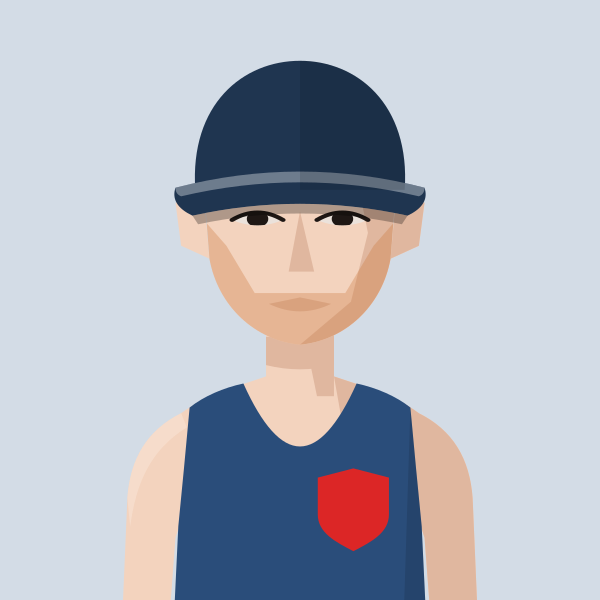
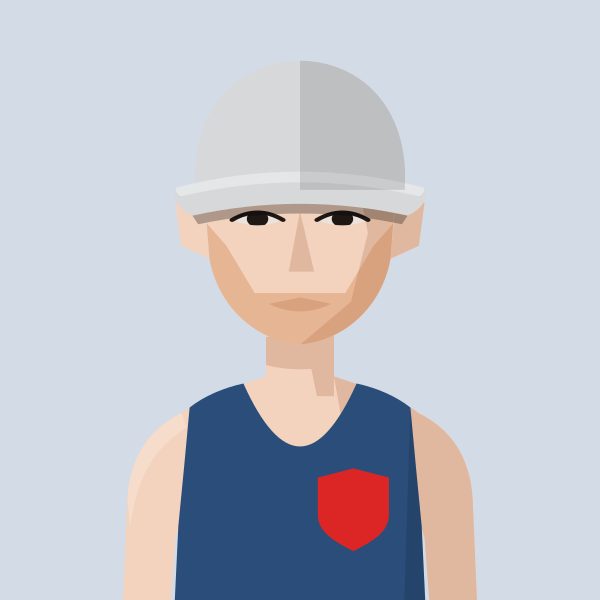
Barnaby Day: light grey cap
Claude-Session: https://claude.ai/code/session_01MgmDWhFqnSSnP4iBLKXUZC

Changed region(s): [[0.27, 0.09, 0.72, 0.36]]

diff --git a/files/index.html b/files/index.html
@@ -583,7 +583,7 @@ return m;})();
 const portraitFile=(name,club)=>{const k=normalizeNameForCompare(name||'').replace(/\s*\(([^)]*)\)$/,(m,c)=>CLUBS[c.toUpperCase()]?'':m);const a=PORTRAITS[k];if(a&&a.club===club)return a.file;const b=PORTRAITS[k+'@'+club];return b?b.file:null;};
 // Athlete header figure: superstar portrait if we have one, else a grey runner in the club vest, else the plain vest icon
 // Changes whenever any portrait changes (set by tools/build_og.py), so browsers fetch fresh images instead of old cached ones
-const PORTRAIT_V='1ee008d5';
+const PORTRAIT_V='3c5a3b78';
 const AthletePortrait=({name,club,w,fill,onClick})=>{const[failed,setFailed]=useState(false);const file=portraitFile(name,club);const src=file?`/portraits/athletes/${file}.svg?v=${PORTRAIT_V}`:PORTRAIT_CLUBS.has(club)?`/portraits/clubs/${club.replace(/\//g,'').replace(/&/g,'and')}.svg?v=${PORTRAIT_V}`:null;if(!src||failed)return<div onClick={onClick} className={onClick?'cursor-pointer':''}><ClubShield club={club} size={w}/></div>;const h=Math.round(w*148/126),ih=Math.round(w*1.4);if(fill)return<div onClick={onClick} className="cursor-pointer" style={{alignSelf:'stretch',minHeight:h,aspectRatio:'126 / 148',flexShrink:0,position:'relative',borderRadius:4,overflow:'hidden'}}><img src={src} alt={file?`Portrait of ${name.replace(/\s*\([^)]*\)$/,'')}`:`Runner in ${CLUBS[club]?.name||club} vest`} style={{position:'absolute',top:0,left:0,display:'block',width:'100%',height:'auto'}} onError={()=>setFailed(true)}/></div>;return<div style={{width:w,height:h,borderRadius:4,overflow:'hidden',flexShrink:0}}><img src={src} alt={file?`Portrait of ${name.replace(/\s*\([^)]*\)$/,'')}`:`Runner in ${CLUBS[club]?.name||club} vest`} width={w} height={ih} style={{display:'block',width:w,height:ih}} onError={()=>setFailed(true)}/></div>;};
 const getClubVestSvg=(club)=>{
   const p="M3 0 L6 0 Q7 4 10 5 Q13 4 14 0 L17 0 L17 20 L3 20 Z";

diff --git a/tools/gen_portraits.py b/tools/gen_portraits.py
@@ -475,7 +475,7 @@ save("blackwood", figure("DUL", skin=1, hair="quiff", hair_colour="light brown")
 save("nicoll", figure("H/W", skin=1, hair="bigcurls", hair_colour="ginger"))
 save("ismaili", figure("THH", skin=2, hair="horseshoe", hair_colour="black", facial="goatee"))
 save("hathaway", figure("HHH", skin=1, hair="crop", hair_colour="bleached", facial="moustache", facial_colour="mid brown", cap="#1C1C1E", cap_back=True))
-save("day", figure("KEN", skin=1, hair="crop", hair_colour="ginger", facial="stubble", cap="#1F3550"))
+save("day", figure("KEN", skin=1, hair="crop", hair_colour="ginger", facial="stubble", cap="#D6D8DA"))
 save("coppard", figure("BEL", skin=1, hair="shortcurls", hair_colour="mid brown", facial="stubble"))
 save("tanguy", figure("HHH", skin=1, hair="quiff", hair_colour="dark brown"))
 save("threadgold", figure("BEL", skin=1, hair="crop", hair_colour="#C98A4E", facial="stubble"))
